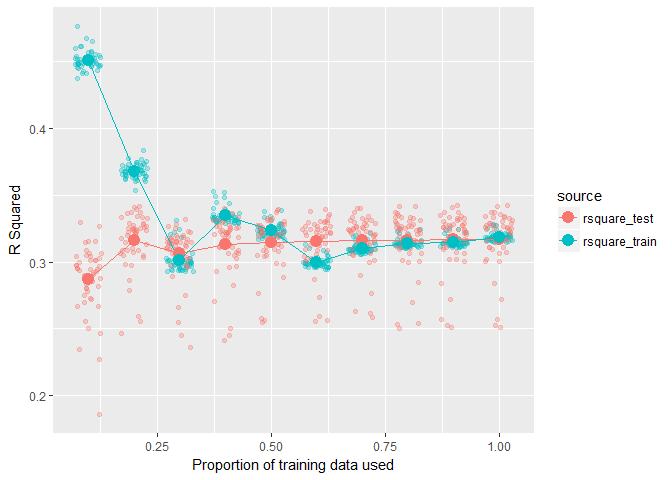
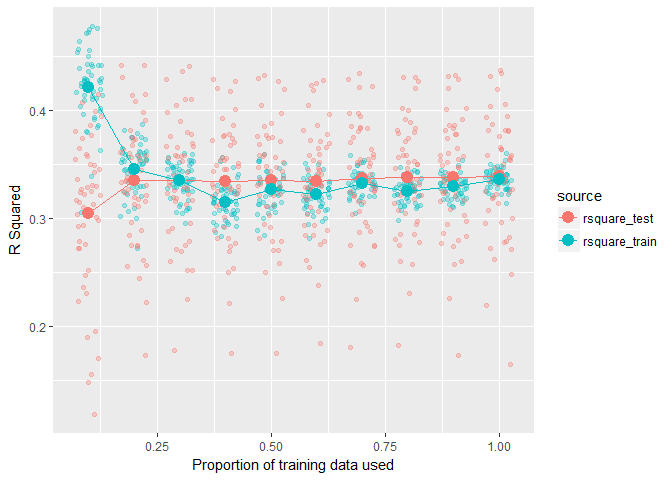
Add new example to README

diff --git a/README.md b/README.md
@@ -16,12 +16,12 @@ devtools::install_github("drsimonj/pipelearner")
 
 pipelearner is built on top of [tidyverse](https://github.com/tidyverse/tidyverse) packages like [modelr](https://github.com/hadley/modelr). To harness the full power of pipelearner, it will help to possess some technical knowledge of tidyverse tools such as:
 
--   `%>%` the pipe operator from [magrittr]() package.
--   tibbles from [tibble]() package.
--   `map()` and other iteration functions from [purrr]() package.
+-   `%>%` the pipe operator from [magrittr](https://github.com/tidyverse/magrittr) package.
+-   tibbles from [tibble](https://github.com/tidyverse/tibble) package.
+-   `map()` and other iteration functions from [purrr](https://github.com/hadley/purrr) package.
 -   `resample` objects from [modelr](https://github.com/hadley/modelr) package.
 
-An excellent resource to get started with these is Hadley Wickham's book, [R for Data Science](http://r4ds.had.co.nz/).
+An excellent resource to get started with these is [R for Data Science](http://r4ds.had.co.nz/), by Garrett Grolemund and Hadley Wickham.
 
 API
 ---
@@ -165,11 +165,11 @@ pl %>%
   learn_models(rpart::rpart, Sepal.Length ~ .) %>% 
   learn()
 #> # A tibble: 2 × 9
-#>   models.id cv_pairs.id train_p         fit       target        model
-#>       <chr>       <chr>   <dbl>      <list>        <chr>        <chr>
-#> 1         1           1       1    <S3: lm> Sepal.Length           lm
-#> 2         2           1       1 <S3: rpart> Sepal.Length rpart::rpart
-#> # ... with 3 more variables: params <list>, train <list>, test <list>
+#>   models.id cv_pairs.id train_p         fit       target model     params
+#>       <chr>       <chr>   <dbl>      <list>        <chr> <chr>     <list>
+#> 1         1           1       1    <S3: lm> Sepal.Length    lm <list [1]>
+#> 2         2           1       1 <S3: rpart> Sepal.Length rpart <list [1]>
+#> # ... with 2 more variables: train <list>, test <list>
 ```
 
 Notice two rows where the regression and decision tree models have been fit to the training data, represented by `models.id`. The different model calls also appear under `model`.
@@ -190,16 +190,15 @@ pipelearner(iris) %>%
                  Sepal.Length ~ Sepal.Width + Petal.Length + Species)) %>% 
   learn()
 #> # A tibble: 6 × 9
-#>   models.id cv_pairs.id train_p         fit       target
-#>       <chr>       <chr>   <dbl>      <list>        <chr>
-#> 1         1           1       1    <S3: lm> Sepal.Length
-#> 2         2           1       1 <S3: rpart> Sepal.Length
-#> 3         3           1       1    <S3: lm> Sepal.Length
-#> 4         4           1       1 <S3: rpart> Sepal.Length
-#> 5         5           1       1    <S3: lm> Sepal.Length
-#> 6         6           1       1 <S3: rpart> Sepal.Length
-#> # ... with 4 more variables: model <chr>, params <list>, train <list>,
-#> #   test <list>
+#>   models.id cv_pairs.id train_p         fit       target        model
+#>       <chr>       <chr>   <dbl>      <list>        <chr>        <chr>
+#> 1         1           1       1    <S3: lm> Sepal.Length           lm
+#> 2         2           1       1 <S3: rpart> Sepal.Length rpart::rpart
+#> 3         3           1       1    <S3: lm> Sepal.Length           lm
+#> 4         4           1       1 <S3: rpart> Sepal.Length rpart::rpart
+#> 5         5           1       1    <S3: lm> Sepal.Length           lm
+#> 6         6           1       1 <S3: rpart> Sepal.Length rpart::rpart
+#> # ... with 3 more variables: params <list>, train <list>, test <list>
 ```
 
 The following fits a regression model and grid-searches hyperparameters of a decision tree:
@@ -211,14 +210,14 @@ pipelearner(iris) %>%
                minsplit = c(2, 20), cp = c(0.01, 0.1)) %>% 
   learn()
 #> # A tibble: 5 × 9
-#>   models.id cv_pairs.id train_p         fit       target        model
-#>       <chr>       <chr>   <dbl>      <list>        <chr>        <chr>
-#> 1         1           1       1    <S3: lm> Sepal.Length           lm
-#> 2         2           1       1 <S3: rpart> Sepal.Length rpart::rpart
-#> 3         3           1       1 <S3: rpart> Sepal.Length rpart::rpart
-#> 4         4           1       1 <S3: rpart> Sepal.Length rpart::rpart
-#> 5         5           1       1 <S3: rpart> Sepal.Length rpart::rpart
-#> # ... with 3 more variables: params <list>, train <list>, test <list>
+#>   models.id cv_pairs.id train_p         fit       target model     params
+#>       <chr>       <chr>   <dbl>      <list>        <chr> <chr>     <list>
+#> 1         1           1       1    <S3: lm> Sepal.Length    lm <list [1]>
+#> 2         2           1       1 <S3: rpart> Sepal.Length rpart <list [3]>
+#> 3         3           1       1 <S3: rpart> Sepal.Length rpart <list [3]>
+#> 4         4           1       1 <S3: rpart> Sepal.Length rpart <list [3]>
+#> 5         5           1       1 <S3: rpart> Sepal.Length rpart <list [3]>
+#> # ... with 2 more variables: train <list>, test <list>
 ```
 
 Remember that these additional parameters (including different formulas) are contained under `params`.
@@ -268,7 +267,7 @@ At present, pipelearner doesn't provide functions to extract any further informa
 
 The following will demonstrate an example of visualising learning curves by extracting performance information from regression models.
 
-`r_square()` is setup to extract an R-squared value. It is based on `modelr::rsquare`, but adjusted to handle new data sets (I've submitted an issue to incorporate into `modelr`).
+`r_square()` is setup to extract an R-squared value. It is based on `modelr::rsquare`, but adjusted to handle new data sets (I've submitted [an issue](https://github.com/hadley/modelr/issues/37) to incorporate into `modelr`).
 
 ``` r
 # R-Squared scoring (because modelr rsquare doen't work right now)
@@ -285,16 +284,23 @@ r_square <- function(model, data) {
 }
 ```
 
-Using the `weather` data from the `nycflights13` package, fit a single regression model to 50 cross-validation pairs, holding out 15% of the data for testing in each case, in iterative training proportions:
+Using a subset of the `weather` data from the `nycflights13` package, fit a single regression model to 50 cross-validation pairs, holding out 15% of the data for testing in each case, in iterative training proportions. Note heavy use of tidyverse functions.
 
 ``` r
-library(nycflights13)
+library(tidyverse)
 
-results <- weather %>% 
+# Create the data set
+library(nycflights13)
+d <- weather %>%
+  select(visib, humid, precip, wind_dir) %>% 
+  drop_na() %>%
+  sample_n(2000)
+
+results <- d %>% 
   pipelearner() %>% 
   learn_cvpairs(n = 50, test = .15) %>% 
   learn_curves(seq(.1, 1, by = .1)) %>% 
-  learn_models(lm, visib ~ humid + precip + wind_dir) %>% 
+  learn_models(lm, visib ~ .) %>% 
   learn()
 results
 #> # A tibble: 500 × 9
@@ -316,9 +322,6 @@ results
 New columns are added with `dplyr::mutate` containing the rsquared values for each set of training and test data by using `purrr` functions.
 
 ``` r
-library(purrr)
-library(dplyr)
-
 results <- results %>% 
   mutate(
     rsquare_train = map2_dbl(fit, train, r_square),
@@ -329,25 +332,22 @@ results %>% select(cv_pairs.id, train_p, contains("rsquare"))
 #> # A tibble: 500 × 4
 #>    cv_pairs.id train_p rsquare_train rsquare_test
 #>          <chr>   <dbl>         <dbl>        <dbl>
-#> 1           01     0.1     0.4668402    0.2668889
-#> 2           01     0.2     0.3720241    0.3046908
-#> 3           01     0.3     0.2988363    0.3020778
-#> 4           01     0.4     0.3332082    0.3083629
-#> 5           01     0.5     0.3251823    0.3089250
-#> 6           01     0.6     0.3010798    0.3089284
-#> 7           01     0.7     0.3110629    0.3093274
-#> 8           01     0.8     0.3158877    0.3096466
-#> 9           01     0.9     0.3168424    0.3095994
-#> 10          01     1.0     0.3202407    0.3096311
+#> 1           01     0.1     0.3845940    0.3500529
+#> 2           01     0.2     0.3062767    0.3640149
+#> 3           01     0.3     0.3087963    0.3667463
+#> 4           01     0.4     0.2933802    0.3723054
+#> 5           01     0.5     0.3049997    0.3746149
+#> 6           01     0.6     0.3063724    0.3720348
+#> 7           01     0.7     0.3207169    0.3842467
+#> 8           01     0.8     0.3152714    0.3829075
+#> 9           01     0.9     0.3227073    0.3863088
+#> 10          01     1.0     0.3282377    0.3873565
 #> # ... with 490 more rows
 ```
 
 We can visualize these learning curves as follows:
 
 ``` r
-library(tidyr)
-library(ggplot2)
-
 results %>% 
   select(train_p, contains("rsquare")) %>% 
   gather(source, rsquare, contains("rsquare")) %>% 
@@ -360,3 +360,47 @@ results %>%
 ```
 
 ![](README-eg_curve-1.png)
+
+The example below fits a decision tree and random forest to 20 folds of a subset of the data.
+
+``` r
+results <-  d %>% 
+  pipelearner() %>% 
+  learn_cvpairs(k = 20) %>% 
+  learn_models(c(rpart::rpart, randomForest::randomForest), 
+               visib ~ .) %>% 
+  learn()
+results
+#> # A tibble: 40 × 9
+#>    models.id cv_pairs.id train_p         fit target        model
+#>        <chr>       <chr>   <dbl>      <list>  <chr>        <chr>
+#> 1          1          01       1 <S3: rpart>  visib rpart::rpart
+#> 2          1          02       1 <S3: rpart>  visib rpart::rpart
+#> 3          1          03       1 <S3: rpart>  visib rpart::rpart
+#> 4          1          04       1 <S3: rpart>  visib rpart::rpart
+#> 5          1          05       1 <S3: rpart>  visib rpart::rpart
+#> 6          1          06       1 <S3: rpart>  visib rpart::rpart
+#> 7          1          07       1 <S3: rpart>  visib rpart::rpart
+#> 8          1          08       1 <S3: rpart>  visib rpart::rpart
+#> 9          1          09       1 <S3: rpart>  visib rpart::rpart
+#> 10         1          10       1 <S3: rpart>  visib rpart::rpart
+#> # ... with 30 more rows, and 3 more variables: params <list>,
+#> #   train <list>, test <list>
+```
+
+Then compute R-Square statistics and visualize the results:
+
+``` r
+results %>% 
+  mutate(rsquare_train = map2_dbl(fit, train, r_square),
+         rsquare_test  = map2_dbl(fit, test,  r_square)) %>% 
+  select(model, contains("rsquare")) %>% 
+  gather(source, rsquare, contains("rsquare")) %>%
+  ggplot(aes(model, rsquare, color = source)) +
+   geom_jitter(width = .05, alpha = .3) +
+   stat_summary(geom = "point", fun.y = mean, size = 4) +
+   labs(x = "Learning model",
+        y = "R Squared")
+```
+
+![](README-eg_2models-1.png)
